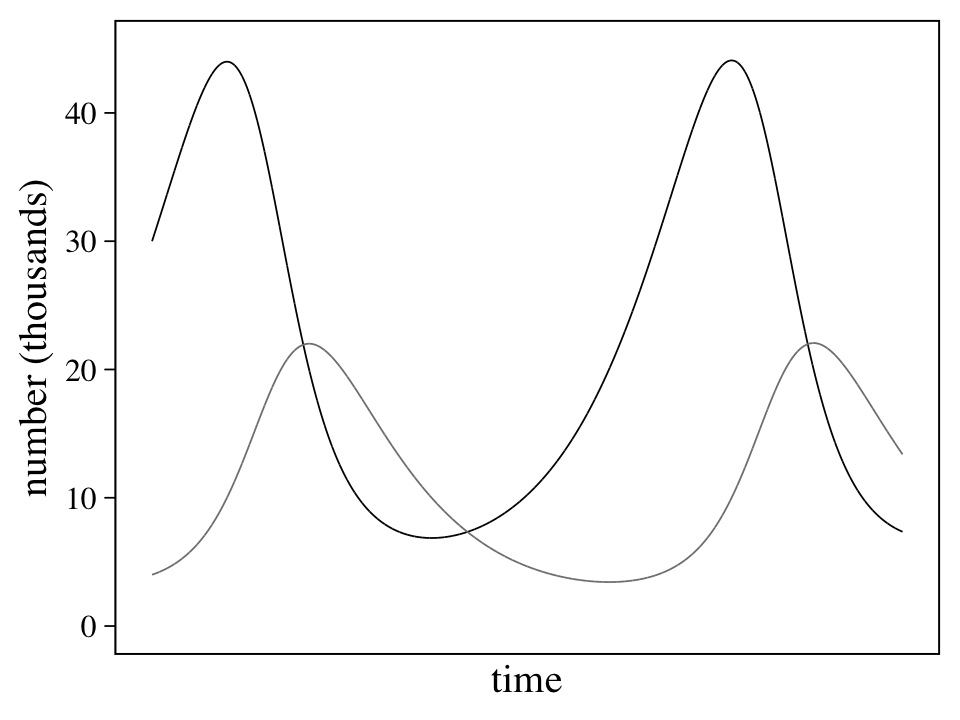
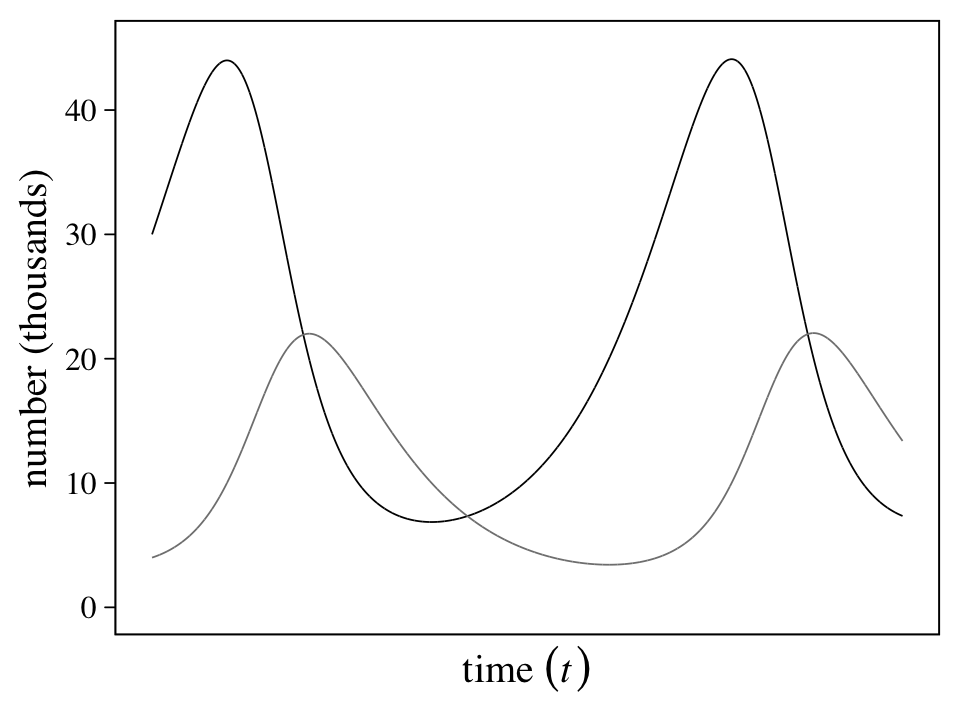
minor prose/code updates

diff --git a/in_the_works/16.4.2.md b/in_the_works/16.4.2.md
@@ -109,6 +109,7 @@ Lynx_Hare %>%
 <img src="16.4.2_files/figure-gfm/unnamed-chunk-4-1.png" width="624" style="display: block; margin: auto;" />
 
 Note, however, that these are numbers of pelts, not of actual animals.
+This will become important when we start modeling.
 
 A typical way to model evenly-spaced time series data like this would be
 with an autoregressive model with the basic structure
@@ -173,10 +174,10 @@ change, \(\mathrm{d} H / \mathrm{d} t\). Happily, our equation for
 each tiny unit of passing time \(\mathrm d t\)” (p. 544). You update by
 
 \[H_{t +\mathrm d t} = H_t + \mathrm d t \frac{\mathrm d H}{\mathrm d t} = H_t + \mathrm d t H_t (b_H - L_t m_H).\]
-Here we’ll use the custom `sim_lynx_hare()` function to simulate how
-this can work. Our version of the function is very similar to the one
-McElreath displayed in his **R** code 16.14, but we changed it so it
-returns a tibble.
+Here we’ll use a custom function called `sim_lynx_hare()` to simulate
+how this can work. Our version of the function is very similar to the
+one McElreath displayed in his **R** code 16.14, but we changed it so it
+returns a tibble which includes a time index, `t`.
 
 ``` r
 sim_lynx_hare <- function(n_steps, init, theta, dt = 0.002) { 
@@ -194,7 +195,8 @@ sim_lynx_hare <- function(n_steps, init, theta, dt = 0.002) {
   }
   
   # return a tibble
-  tibble(H = H,
+  tibble(t = 1:n_steps,
+         H = H,
          L = L)
   
 }
@@ -217,22 +219,21 @@ glimpse(z)
 ```
 
     ## Rows: 10,000
-    ## Columns: 2
+    ## Columns: 3
+    ## $ t <int> 1, 2, 3, 4, 5, 6, 7, 8, 9, 10, 11, 12, 13, 14, 15, 16, 17, 18, 19, 20, 21, 22, 23, 24, 25, 26, 27…
     ## $ H <dbl> 30.00000, 30.01800, 30.03600, 30.05401, 30.07203, 30.09005, 30.10807, 30.12610, 30.14413, 30.1621…
     ## $ L <dbl> 4.000000, 4.002000, 4.004005, 4.006014, 4.008028, 4.010046, 4.012069, 4.014097, 4.016129, 4.01816…
 
-Each row is a stand-in index for time. Here we’ll explicitly add a
-`time` column and them plot the results in our version of Figure 16.7.
+Now plot the results in our version of Figure 16.7.
 
 ``` r
 z %>% 
-  mutate(time = 1:n()) %>% 
-  pivot_longer(-time) %>% 
+  pivot_longer(-t) %>% 
   
-  ggplot(aes(x = time, y = value, color = name)) +
+  ggplot(aes(x = t, y = value, color = name)) +
   geom_line(size = 1/4) +
   scale_color_grey(start = 0, end = .5) +
-  scale_x_continuous(breaks = NULL) +
+  scale_x_continuous(expression(time~(italic(t))), breaks = NULL) +
   scale_y_continuous("number (thousands)", breaks = 0:4 * 10, limits = c(0, 45)) +
   theme(legend.position = "none")
 ```
@@ -246,7 +247,7 @@ eaten, the lynx begin to die off. Then the cycle repeats (p. 545).”
 ### The statistical model.
 
 If we continue to let \(H_t\) and \(L_t\) be the number of hares and
-lynx at time \(t\), we might also want to acknowledge the distinction
+lynx at time \(t\), we might also want to rehearse the distinction
 between those numbers and our observations by letting \(h_t\) and
 \(l_t\) stand for the observed numbers of hares and lynx. These observed
 numbers, recall, are from counts of pelts. We want a statistical model
@@ -371,25 +372,28 @@ tibble(p = rbeta(n = 1e6, shape1 = 40, shape2 = 200)) %>%
 
 <img src="16.4.2_files/figure-gfm/unnamed-chunk-10-1.png" width="480" style="display: block; margin: auto;" />
 
+The \(\operatorname{Beta}(40, 200)\) prior suggests an average trapping
+rate near 16%.
+
 ⚠ The content to follow is going to diverge from the text, a bit. As
 you can see from the equation, above, McElreath’s statistical model is a
-bit of a beast. We can fit this model with **brms**, but the workflow is
-more complicated than usual. To make this material more approachable, I
-am going to divide the remainder of this section into two subsections.
-In the first subsection, we’ll fit a simplified version of McElreath’s
+beast. We can fit this model with **brms**, but the workflow is more
+complicated than usual. To make this material more approachable, I am
+going to divide the remainder of this section into two subsections. In
+the first subsection, we’ll fit a simplified version of McElreath’s
 `m16.5`, which does not contain the measurement-error portion. In the
 second subsection, we’ll tack on the measurement-error portion and fit
 the full model. ⚠
 
 #### 16.4.2.1 The simple Lotka-Volterra model
 
-Before we get into it, I should acknowledge that the workflow to follow
-is a direct result of the generous contributions from [Markus
-Gesmann](https://twitter.com/MarkusGesmann). It was one of his older
-blog posts, [*PK/PD reserving
+Before we get into it, I should acknowledge that this **brms** approach
+to fitting ODE’s is a direct result of the generous contributions from
+[Markus Gesmann](https://twitter.com/MarkusGesmann). It was one of his
+older blog posts, [*PK/PD reserving
 models*](https://magesblog.com/post/2018-01-30-pkpd-reserving-models/),
-that led me to believe one could fit an ODE model with **brms**. But
-when I reached out to Gesmann on GitHub (see [Issue
+that led me to believe one could fit an ODE model with **brms**. When I
+reached out to Gesmann on GitHub (see [Issue
 \#18](https://github.com/ASKurz/Statistical_Rethinking_with_brms_ggplot2_and_the_tidyverse_2_ed/issues/18)),
 he went so far as to write a new blog post on exactly this model:
 [*Fitting multivariate ODE models with
@@ -399,8 +403,8 @@ blog post, McElreath’s model in the text, and the [original
 post](https://mc-stan.org/users/documentation/case-studies/lotka-volterra-predator-prey.html)
 by Carpenter that started this all.
 
-As far as the statistical model goes, the revision of McElreath’s model
-that omits the measurement-error portion is
+As far as the statistical model goes, we might express the revision of
+McElreath’s model omitting the measurement-error portion as
 
 \[
 \begin{align*}
@@ -430,6 +434,7 @@ model. As Gesmann pointed out, the way around this is to convert the
 `Lynx_Hare` data into the long format where the pelt values from the
 `Lynx` and `Hare` columns are all listed in a `pelts` columns and the
 two animal populations are differentiated in a `population` column.
+We’ll call this long version of the data `Lynx_Hare_long`.
 
 ``` r
 Lynx_Hare_long <-
@@ -441,6 +446,7 @@ Lynx_Hare_long <-
          t     = Year - min(Year) + 1) %>% 
   arrange(delta, Year)
 
+# what did we do?
 head(Lynx_Hare_long)
 ```
 
@@ -468,7 +474,7 @@ Stan how to fit a Lotka-Volterra model. In his blog, Gesmann called this
 ``` r
 LotkaVolterra <- "
 // Sepcify dynamical system (ODEs)
-real[] ode_LV(real t,         // time, not used because the LV model do not depend on time
+real[] ode_LV(real t,         // time
               real [] y,      // the system rate
               real [] theta,  // the parameters (i.e., the birth and mortality rates)
               real [] x_r,    // data constant, not used here
@@ -543,11 +549,10 @@ lv_formula <-
 ```
 
 Note our use of the `LV()` function in the `nlf()` line. That’s a
-function we defined in the `LotkaVolterra` script, above. It’s what will
-allow us to connect the variables and parameters in our `formula` code
-to the underlying statistical model. Extending these sensibilities, we
-next define our priors and save them as an independent object called
-`lv_priors`.
+function defined in the `LotkaVolterra` script, above, which will allow
+us to connect the variables and parameters in our `formula` code to the
+underlying statistical model. Next we define our priors and save them as
+an independent object called `lv_priors`.
 
 ``` r
 lv_priors <- c(
@@ -564,7 +569,7 @@ lv_priors <- c(
 We’re finally ready to fit our model with **brms**\! Are you excited?
 Notice our `stanvars` and `backend` settings\[1\]. For the current
 version of **brms**, these are crucial. Also, I find these models
-benefit from setting `inits = 0`. Happily, this model just took about
+benefit from setting `inits = 0`. Happily, this model fit in just about
 four minutes on my 2019 MacBook Pro.
 
 ``` r
@@ -581,14 +586,15 @@ b16.5a <-
 ```
 
 On page 548, McElreath recommend we check the chains. Here we’ll pretty
-up with help from **bayesplot**.
+them up with help from **bayesplot**.
 
 ``` r
 library(bayesplot)
 
 color_scheme_set("gray")
 
-col_names <- c("italic(H)[1]", "italic(L)[1]", str_c("italic(", c("b[H]", "m[H]", "b[L]", "m[L]"), ")"), "sigma[italic(H)]", "sigma[italic(L)]", "lp__", "chain", "iter")
+col_names <- c("italic(H)[1]", "italic(L)[1]", str_c("italic(", c("b[H]", "m[H]", "b[L]", "m[L]"), ")"), 
+               "sigma[italic(H)]", "sigma[italic(L)]", "lp__", "chain", "iter")
 
 posterior_samples(b16.5a, add_chain = T) %>% 
   set_names(col_names) %>% 
@@ -598,7 +604,7 @@ posterior_samples(b16.5a, add_chain = T) %>%
              size = .15) +
   scale_x_continuous(breaks = NULL) +
   theme(legend.key.size = unit(0.15, 'in'),
-        legend.position = c(.95, .13))
+        legend.position = c(.97, .13))
 ```
 
 <img src="16.4.2_files/figure-gfm/unnamed-chunk-16-1.png" width="768" style="display: block; margin: auto;" />
@@ -747,7 +753,7 @@ lv_formula_error <-
   )
 ```
 
-Update the priors and save them as an object, too.
+Update the priors and save them as `lv_priors_error`.
 
 ``` r
 lv_priors_error <- c(
@@ -783,7 +789,8 @@ b16.5b <-
 Once again, check the quality of the chains.
 
 ``` r
-col_names <- c("italic(H)[1]", "italic(L)[1]", str_c("italic(", c("b[H]", "m[H]", "b[L]", "m[L]"), ")"), "italic(p[H])", "italic(p[L])", "sigma[italic(H)]", "sigma[italic(L)]", "lp__", "chain", "iter")
+col_names <- c("italic(H)[1]", "italic(L)[1]", str_c("italic(", c("b[H]", "m[H]", "b[L]", "m[L]"), ")"), 
+               "italic(p[H])", "italic(p[L])", "sigma[italic(H)]", "sigma[italic(L)]", "lp__", "chain", "iter")
 
 posterior_samples(b16.5b, add_chain = T) %>% 
   set_names(col_names) %>% 
@@ -854,7 +861,7 @@ p1 <-
   mutate(iter = 1:n()) %>% 
   pivot_longer(-iter, names_to = "row") %>% 
   mutate(row = as.double(row)) %>% 
-  left_join(Lynx_Hare_long %>% mutate(row  = 1:n()),
+  left_join(Lynx_Hare_long %>% mutate(row = 1:n()),
             by = "row") %>% 
 
   # plot!
@@ -904,7 +911,7 @@ p2 <-
   mutate(iter = 1:n()) %>% 
   pivot_longer(-iter, names_to = "row") %>% 
   mutate(row = as.double(row)) %>% 
-  left_join(Lynx_Hare_long %>% mutate(row  = 1:n()),
+  left_join(Lynx_Hare_long %>% mutate(row = 1:n()),
             by = "row")  %>% 
   filter(iter < 22) %>% 
 
@@ -926,6 +933,8 @@ p1 / p2
 ```
 
 <img src="16.4.2_files/figure-gfm/unnamed-chunk-28-1.png" width="624" style="display: block; margin: auto;" />
+
+Boom\!
 
 ### ~~Lynx lessons~~ Bonus: Practice with the autoregressive model.
 
@@ -981,8 +990,6 @@ sessionInfo()
     ## [111] assertthat_0.2.1     withr_2.3.0          shinystan_2.5.0      mgcv_1.8-33          hms_0.5.3           
     ## [116] grid_4.0.3           coda_0.19-4          minqa_1.2.4          cmdstanr_0.2.1       rmarkdown_2.5       
     ## [121] shiny_1.5.0          lubridate_1.7.9.2    base64enc_0.1-3      dygraphs_1.1.1.6
-
-## Footnote
 
 <div id="refs" class="references">
 
